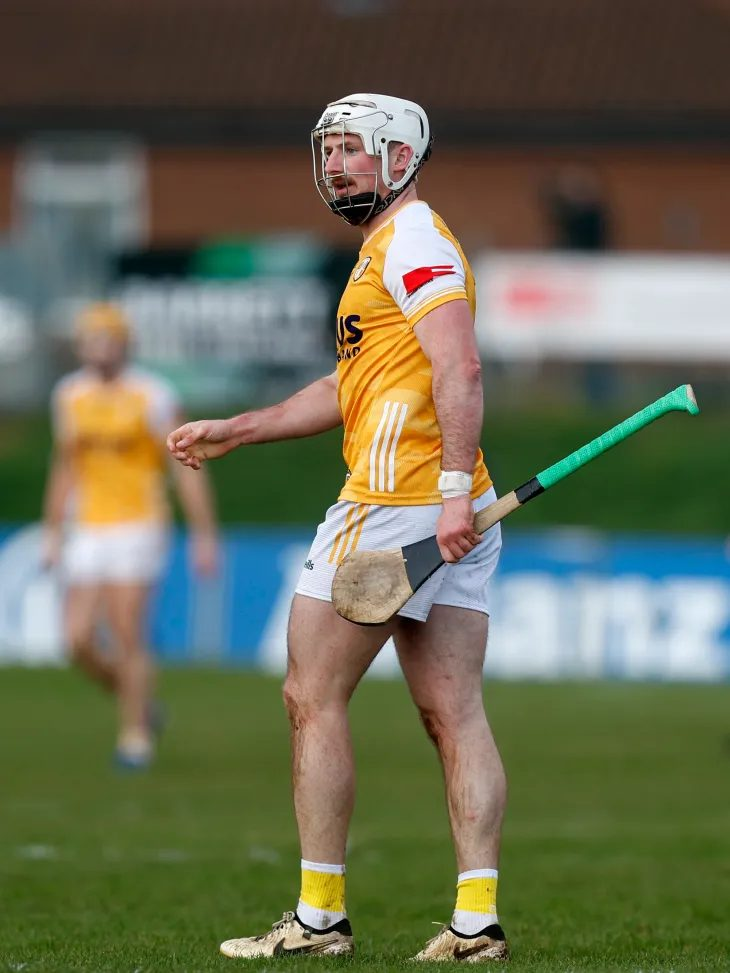
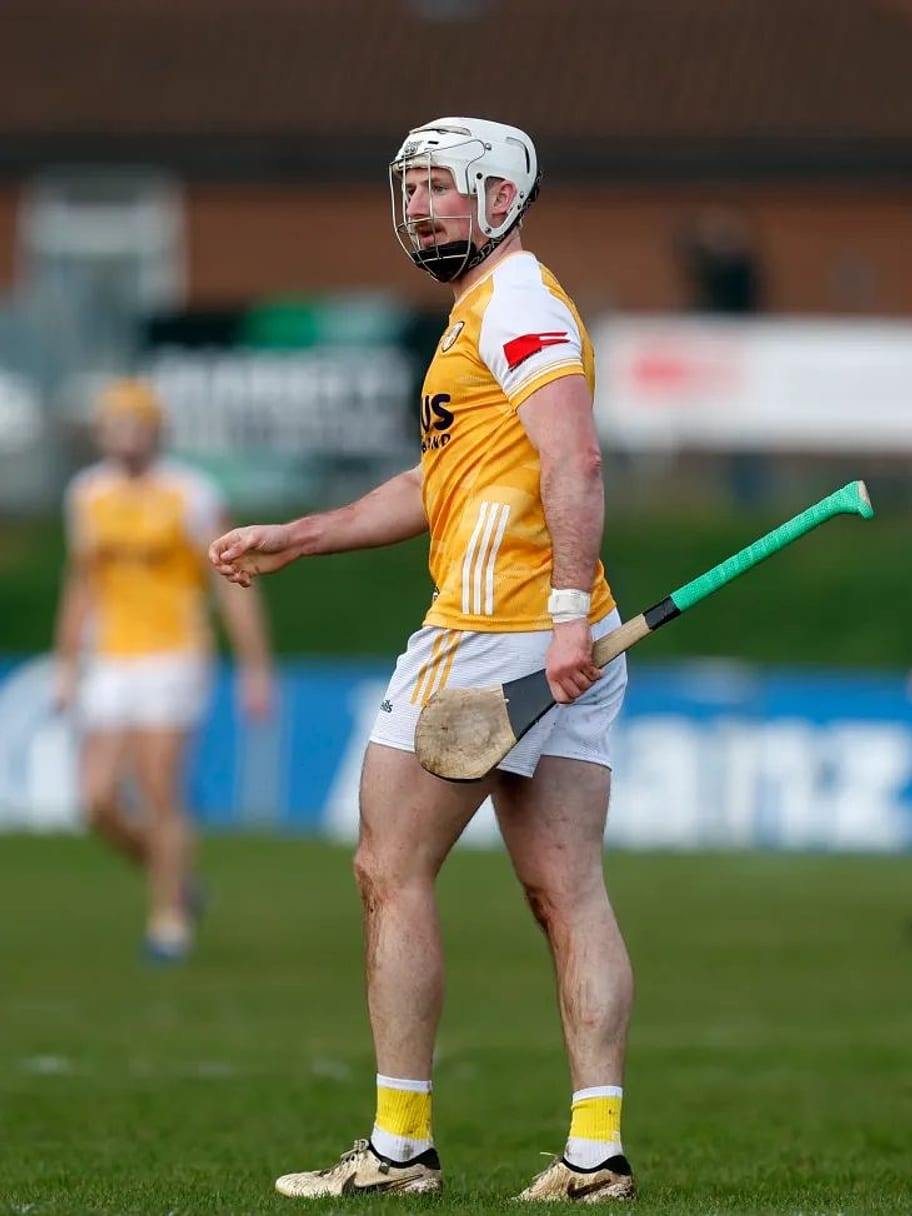
SEO metadata pass and sharper hero rendering
- Full head: canonical, robots, Open Graph, Twitter card, JSON-LD
  (Organization, Person, Service, WebSite, FAQPage), touch icons
- Add robots.txt, sitemap.xml and a 1200x630 social share image
- Hero: sharp layer capped at 1.25x native over a blurred backdrop so the
  730px source is no longer stretched ~2x on wide screens; source
  re-encoded with Lanczos upscale and light sharpening
- Lazy-load below-the-fold photos, descriptive alt text

Claude-Session: https://claude.ai/code/session_0152sJEvqxkqSWzXMXfQjs4p

diff --git a/index.html b/index.html
@@ -1,11 +1,88 @@
 <!DOCTYPE html>
-<html lang="en">
+<html lang="en-IE">
 <head>
 <meta charset="UTF-8">
 <meta name="viewport" content="width=device-width, initial-scale=1.0">
-<title>1:1 Online Coaching | PB Performance Coaching</title>
-<meta name="description" content="Individual 1:1 online coaching for ambitious GAA players. Become stronger, fitter, faster and better prepared to perform on the pitch.">
+<title>1:1 Online S&amp;C Coaching for GAA Players | PB Performance Coaching</title>
+<meta name="description" content="Individual online strength &amp; conditioning coaching for ambitious GAA players, from Antrim senior hurler and MSc performance coach Paddy Burke.">
+<link rel="canonical" href="https://pbperformancecoaching.com/">
+<meta name="robots" content="index,follow,max-image-preview:large">
+<meta name="author" content="Paddy Burke">
+<meta name="theme-color" content="#080e12">
+
+<meta property="og:type" content="website">
+<meta property="og:site_name" content="PB Performance Coaching">
+<meta property="og:locale" content="en_IE">
+<meta property="og:url" content="https://pbperformancecoaching.com/">
+<meta property="og:title" content="1:1 Online Coaching for Ambitious GAA Players">
+<meta property="og:description" content="Physical performance coaching built around your season, your schedule and your goals. Coached personally by Antrim senior hurler Paddy Burke.">
+<meta property="og:image" content="https://pbperformancecoaching.com/images/og-image.jpg">
+<meta property="og:image:width" content="1200">
+<meta property="og:image:height" content="630">
+<meta property="og:image:alt" content="Paddy Burke coaching a GAA player through a testing session in the gym">
+<meta name="twitter:card" content="summary_large_image">
+<meta name="twitter:title" content="1:1 Online Coaching for Ambitious GAA Players">
+<meta name="twitter:description" content="Physical performance coaching built around your season, your schedule and your goals. Coached personally by Antrim senior hurler Paddy Burke.">
+<meta name="twitter:image" content="https://pbperformancecoaching.com/images/og-image.jpg">
+
 <link rel="icon" type="image/svg+xml" href="images/logo.svg">
+<link rel="icon" type="image/png" sizes="32x32" href="images/favicon-32.png">
+<link rel="apple-touch-icon" sizes="180x180" href="images/apple-touch-icon.png">
+<link rel="preload" as="image" href="images/hurling-portrait.jpg" fetchpriority="high">
+
+<script type="application/ld+json">
+{
+  "@context": "https://schema.org",
+  "@graph": [
+    {
+      "@type": "Organization",
+      "@id": "https://pbperformancecoaching.com/#org",
+      "name": "PB Performance Coaching",
+      "url": "https://pbperformancecoaching.com/",
+      "logo": "https://pbperformancecoaching.com/images/logo.jpg",
+      "founder": { "@id": "https://pbperformancecoaching.com/#paddy" },
+      "areaServed": "Ireland"
+    },
+    {
+      "@type": "Person",
+      "@id": "https://pbperformancecoaching.com/#paddy",
+      "name": "Paddy Burke",
+      "jobTitle": "Strength & Conditioning Coach",
+      "description": "Antrim senior hurler with more than ten years of intercounty experience, Strength & Conditioning Coach and MSc Performance Coaching graduate.",
+      "image": "https://pbperformancecoaching.com/images/paddy-bench.jpg",
+      "worksFor": { "@id": "https://pbperformancecoaching.com/#org" },
+      "url": "https://pbperformancecoaching.com/"
+    },
+    {
+      "@type": "Service",
+      "name": "1:1 Online Coaching for GAA Players",
+      "serviceType": "Online strength and conditioning coaching",
+      "provider": { "@id": "https://pbperformancecoaching.com/#org" },
+      "audience": { "@type": "Audience", "audienceType": "GAA players, club to intercounty" },
+      "areaServed": "Ireland",
+      "url": "https://pbperformancecoaching.com/",
+      "description": "Individual physical performance coaching for ambitious GAA players: an initial assessment, a programme built around your team schedule, weekly check-ins, adjustments and direct access to your coach."
+    },
+    {
+      "@type": "WebSite",
+      "name": "PB Performance Coaching",
+      "url": "https://pbperformancecoaching.com/",
+      "publisher": { "@id": "https://pbperformancecoaching.com/#org" }
+    },
+    {
+      "@type": "FAQPage",
+      "mainEntity": [
+        { "@type": "Question", "name": "How does online coaching work?", "acceptedAnswer": { "@type": "Answer", "text": "After your initial assessment, your programme is delivered through the coaching app with exercise demonstrations and progress tracking. You complete a weekly check-in, receive adjustments and can contact Paddy directly when you need support." } },
+        { "@type": "Question", "name": "How many sessions will I complete?", "acceptedAnswer": { "@type": "Answer", "text": "That depends on your team schedule, goals and stage of the season. Your plan is built around the time you realistically have. More sessions are not automatically better." } },
+        { "@type": "Question", "name": "Will the gym work leave me tired for matches?", "acceptedAnswer": { "@type": "Answer", "text": "Your programme is planned around team training and fixtures. Volume and intensity are managed so that your gym work supports rather than competes with your performance on the pitch." } },
+        { "@type": "Question", "name": "How long does coaching last?", "acceptedAnswer": { "@type": "Answer", "text": "Meaningful physical development takes time. Coaching begins with an initial 90-day commitment, after which we review the next phase around your goals and season." } },
+        { "@type": "Question", "name": "Is this only for intercounty players?", "acceptedAnswer": { "@type": "Answer", "text": "No. The coaching is for ambitious GAA players from club level through to intercounty. Your current level matters less than your willingness to work, communicate and improve." } },
+        { "@type": "Question", "name": "What happens after I apply?", "acceptedAnswer": { "@type": "Answer", "text": "Paddy will review your application personally and contact you to arrange a conversation. You'll discuss where you are now, what you want to improve and whether the coaching is the right fit for you." } }
+      ]
+    }
+  ]
+}
+</script>
 <style>
 *,*::before,*::after{box-sizing:border-box;margin:0;padding:0}
 :root{
@@ -34,7 +111,8 @@ nav{position:fixed;top:0;left:0;right:0;z-index:100;display:flex;align-items:cen
 
 /* HERO */
 .hero{min-height:100vh;position:relative;display:flex;align-items:center;justify-content:center;overflow:hidden}
-.hero__bg{position:absolute;inset:0;background:url('images/hurling-portrait.jpg') 50% 18%/cover no-repeat;filter:brightness(.48) saturate(.8)}
+.hero__bg{position:absolute;inset:-32px;background:url('images/hurling-portrait.jpg') 50% 18%/cover no-repeat;filter:blur(18px) brightness(.4) saturate(.7)}
+.hero__img{position:absolute;top:0;left:50%;height:125%;width:auto;max-width:none;transform:translate(-50%,-9%);filter:brightness(.48) saturate(.8);-webkit-mask-image:linear-gradient(to right,transparent,#000 22%,#000 78%,transparent);mask-image:linear-gradient(to right,transparent,#000 22%,#000 78%,transparent)}
 .hero__g{position:absolute;inset:0;background:linear-gradient(to bottom,rgba(8,14,18,.25) 0%,rgba(8,14,18,.15) 30%,rgba(8,14,18,.65) 68%,#080e12 100%)}
 .hero__c{position:relative;z-index:2;max-width:700px;padding:7rem 2rem 5rem;width:100%;text-align:center}
 .hero__tag{display:inline-block;font-size:.6rem;font-weight:700;letter-spacing:.22em;text-transform:uppercase;color:var(--accent);margin-bottom:1.4rem}
@@ -176,6 +254,7 @@ footer a{color:inherit;text-decoration:none;opacity:.7}
 <!-- HERO -->
 <section class="hero">
   <div class="hero__bg"></div>
+  <img class="hero__img" src="images/hurling-portrait.jpg" alt="" aria-hidden="true" fetchpriority="high" decoding="async">
   <div class="hero__g"></div>
   <div class="hero__c">
     <span class="hero__tag">Individual 1:1 Online Coaching</span>
@@ -211,7 +290,7 @@ footer a{color:inherit;text-decoration:none;opacity:.7}
     <p class="s-eyebrow">Player Results</p>
     <h2 class="s-h">From reserve player to established starter</h2>
     <div class="proof-inner">
-      <img src="images/athlete-owen.png" alt="Owen" class="proof-photo">
+      <img src="images/athlete-owen.png" alt="Owen, GAA player coached by PB Performance" class="proof-photo" loading="lazy" decoding="async">
       <div>
         <p class="s-body">Over 14 months, Owen:</p>
         <ul class="proof-list">
@@ -237,7 +316,7 @@ footer a{color:inherit;text-decoration:none;opacity:.7}
 
       <!-- Aimon — photo, updated to quote -->
       <div class="result-card rv">
-        <img src="images/athlete-aimon.png" alt="Aimon" class="result-card__img">
+        <img src="images/athlete-aimon.png" alt="Aimon" class="result-card__img" loading="lazy" decoding="async">
         <div class="result-card__body">
           <p class="result-card__heading">Stronger and more powerful on the pitch</p>
           <p class="result-card__quote">"I feel physically stronger on the pitch and more powerful in every aspect. I reached a 100kg bench press and a 150kg squat. The attention to detail and the way the programme was built around my goals were top drawer."</p>
@@ -247,7 +326,7 @@ footer a{color:inherit;text-decoration:none;opacity:.7}
 
       <!-- Niamh — photo, updated quote -->
       <div class="result-card rv" style="transition-delay:.05s">
-        <img src="images/athlete-niamh.png" alt="Niamh" class="result-card__img">
+        <img src="images/athlete-niamh.png" alt="Niamh" class="result-card__img" loading="lazy" decoding="async">
         <div class="result-card__body">
           <p class="result-card__heading">A noticeable difference through the tackle</p>
           <p class="result-card__quote">"I noticed a big difference in my strength, especially when taking the ball through a tackle — I can carry it much better. The structured programme took all the guesswork out of the gym, and I could build it around my lifestyle and busy schedule."</p>
@@ -257,7 +336,7 @@ footer a{color:inherit;text-decoration:none;opacity:.7}
 
       <!-- Kieran — photo, updated quote -->
       <div class="result-card rv" style="transition-delay:.1s">
-        <img src="images/athlete-kieran.jpg" alt="Kieran" class="result-card__img">
+        <img src="images/athlete-kieran.jpg" alt="Kieran" class="result-card__img" loading="lazy" decoding="async">
         <div class="result-card__body">
           <p class="result-card__heading">Progress without carrying fatigue into training</p>
           <p class="result-card__quote">"This is the fastest I have ever progressed in the gym and the highest weights I have hit. The programme pushed me without leaving me fatigued for the next session, and any changes I needed were made quickly."</p>
@@ -267,7 +346,7 @@ footer a{color:inherit;text-decoration:none;opacity:.7}
 
       <!-- Eamonn — photo, existing -->
       <div class="result-card rv" style="transition-delay:.15s">
-        <img src="images/athlete-eamonn.jpg" alt="Eamonn" class="result-card__img">
+        <img src="images/athlete-eamonn.jpg" alt="Eamonn" class="result-card__img" loading="lazy" decoding="async">
         <div class="result-card__body">
           <p class="result-card__heading">Meaningful progress with limited time</p>
           <p class="result-card__quote">"After a season ravaged by injuries, I wanted to put on size and set myself up properly. I gained around 3kg of muscle and improved my strength massively. The short, simple sessions meant I could still tick every box, even with limited time."</p>
@@ -442,7 +521,7 @@ footer a{color:inherit;text-decoration:none;opacity:.7}
   <div class="w rv">
     <h2 class="s-h" style="margin-bottom:1.8rem">Meet Paddy</h2>
     <div class="about-inner">
-      <img src="images/paddy-bench.jpg" alt="Paddy Burke" class="about-photo" onerror="this.style.display='none'">
+      <img src="images/paddy-bench.jpg" alt="Paddy Burke, Antrim senior hurler and strength and conditioning coach" class="about-photo" loading="lazy" decoding="async">
       <div>
         <div class="about-creds-row">
           <span class="about-cred">Antrim Senior Hurler</span>

diff --git a/pb-one-to-one.html b/pb-one-to-one.html
@@ -1,11 +1,88 @@
 <!DOCTYPE html>
-<html lang="en">
+<html lang="en-IE">
 <head>
 <meta charset="UTF-8">
 <meta name="viewport" content="width=device-width, initial-scale=1.0">
-<title>1:1 Online Coaching | PB Performance Coaching</title>
-<meta name="description" content="Individual 1:1 online coaching for ambitious GAA players. Become stronger, fitter, faster and better prepared to perform on the pitch.">
+<title>1:1 Online S&amp;C Coaching for GAA Players | PB Performance Coaching</title>
+<meta name="description" content="Individual online strength &amp; conditioning coaching for ambitious GAA players, from Antrim senior hurler and MSc performance coach Paddy Burke.">
+<link rel="canonical" href="https://pbperformancecoaching.com/">
+<meta name="robots" content="index,follow,max-image-preview:large">
+<meta name="author" content="Paddy Burke">
+<meta name="theme-color" content="#080e12">
+
+<meta property="og:type" content="website">
+<meta property="og:site_name" content="PB Performance Coaching">
+<meta property="og:locale" content="en_IE">
+<meta property="og:url" content="https://pbperformancecoaching.com/">
+<meta property="og:title" content="1:1 Online Coaching for Ambitious GAA Players">
+<meta property="og:description" content="Physical performance coaching built around your season, your schedule and your goals. Coached personally by Antrim senior hurler Paddy Burke.">
+<meta property="og:image" content="https://pbperformancecoaching.com/images/og-image.jpg">
+<meta property="og:image:width" content="1200">
+<meta property="og:image:height" content="630">
+<meta property="og:image:alt" content="Paddy Burke coaching a GAA player through a testing session in the gym">
+<meta name="twitter:card" content="summary_large_image">
+<meta name="twitter:title" content="1:1 Online Coaching for Ambitious GAA Players">
+<meta name="twitter:description" content="Physical performance coaching built around your season, your schedule and your goals. Coached personally by Antrim senior hurler Paddy Burke.">
+<meta name="twitter:image" content="https://pbperformancecoaching.com/images/og-image.jpg">
+
 <link rel="icon" type="image/svg+xml" href="images/logo.svg">
+<link rel="icon" type="image/png" sizes="32x32" href="images/favicon-32.png">
+<link rel="apple-touch-icon" sizes="180x180" href="images/apple-touch-icon.png">
+<link rel="preload" as="image" href="images/hurling-portrait.jpg" fetchpriority="high">
+
+<script type="application/ld+json">
+{
+  "@context": "https://schema.org",
+  "@graph": [
+    {
+      "@type": "Organization",
+      "@id": "https://pbperformancecoaching.com/#org",
+      "name": "PB Performance Coaching",
+      "url": "https://pbperformancecoaching.com/",
+      "logo": "https://pbperformancecoaching.com/images/logo.jpg",
+      "founder": { "@id": "https://pbperformancecoaching.com/#paddy" },
+      "areaServed": "Ireland"
+    },
+    {
+      "@type": "Person",
+      "@id": "https://pbperformancecoaching.com/#paddy",
+      "name": "Paddy Burke",
+      "jobTitle": "Strength & Conditioning Coach",
+      "description": "Antrim senior hurler with more than ten years of intercounty experience, Strength & Conditioning Coach and MSc Performance Coaching graduate.",
+      "image": "https://pbperformancecoaching.com/images/paddy-bench.jpg",
+      "worksFor": { "@id": "https://pbperformancecoaching.com/#org" },
+      "url": "https://pbperformancecoaching.com/"
+    },
+    {
+      "@type": "Service",
+      "name": "1:1 Online Coaching for GAA Players",
+      "serviceType": "Online strength and conditioning coaching",
+      "provider": { "@id": "https://pbperformancecoaching.com/#org" },
+      "audience": { "@type": "Audience", "audienceType": "GAA players, club to intercounty" },
+      "areaServed": "Ireland",
+      "url": "https://pbperformancecoaching.com/",
+      "description": "Individual physical performance coaching for ambitious GAA players: an initial assessment, a programme built around your team schedule, weekly check-ins, adjustments and direct access to your coach."
+    },
+    {
+      "@type": "WebSite",
+      "name": "PB Performance Coaching",
+      "url": "https://pbperformancecoaching.com/",
+      "publisher": { "@id": "https://pbperformancecoaching.com/#org" }
+    },
+    {
+      "@type": "FAQPage",
+      "mainEntity": [
+        { "@type": "Question", "name": "How does online coaching work?", "acceptedAnswer": { "@type": "Answer", "text": "After your initial assessment, your programme is delivered through the coaching app with exercise demonstrations and progress tracking. You complete a weekly check-in, receive adjustments and can contact Paddy directly when you need support." } },
+        { "@type": "Question", "name": "How many sessions will I complete?", "acceptedAnswer": { "@type": "Answer", "text": "That depends on your team schedule, goals and stage of the season. Your plan is built around the time you realistically have. More sessions are not automatically better." } },
+        { "@type": "Question", "name": "Will the gym work leave me tired for matches?", "acceptedAnswer": { "@type": "Answer", "text": "Your programme is planned around team training and fixtures. Volume and intensity are managed so that your gym work supports rather than competes with your performance on the pitch." } },
+        { "@type": "Question", "name": "How long does coaching last?", "acceptedAnswer": { "@type": "Answer", "text": "Meaningful physical development takes time. Coaching begins with an initial 90-day commitment, after which we review the next phase around your goals and season." } },
+        { "@type": "Question", "name": "Is this only for intercounty players?", "acceptedAnswer": { "@type": "Answer", "text": "No. The coaching is for ambitious GAA players from club level through to intercounty. Your current level matters less than your willingness to work, communicate and improve." } },
+        { "@type": "Question", "name": "What happens after I apply?", "acceptedAnswer": { "@type": "Answer", "text": "Paddy will review your application personally and contact you to arrange a conversation. You'll discuss where you are now, what you want to improve and whether the coaching is the right fit for you." } }
+      ]
+    }
+  ]
+}
+</script>
 <style>
 *,*::before,*::after{box-sizing:border-box;margin:0;padding:0}
 :root{
@@ -34,7 +111,8 @@ nav{position:fixed;top:0;left:0;right:0;z-index:100;display:flex;align-items:cen
 
 /* HERO */
 .hero{min-height:100vh;position:relative;display:flex;align-items:center;justify-content:center;overflow:hidden}
-.hero__bg{position:absolute;inset:0;background:url('images/hurling-portrait.jpg') 50% 18%/cover no-repeat;filter:brightness(.48) saturate(.8)}
+.hero__bg{position:absolute;inset:-32px;background:url('images/hurling-portrait.jpg') 50% 18%/cover no-repeat;filter:blur(18px) brightness(.4) saturate(.7)}
+.hero__img{position:absolute;top:0;left:50%;height:125%;width:auto;max-width:none;transform:translate(-50%,-9%);filter:brightness(.48) saturate(.8);-webkit-mask-image:linear-gradient(to right,transparent,#000 22%,#000 78%,transparent);mask-image:linear-gradient(to right,transparent,#000 22%,#000 78%,transparent)}
 .hero__g{position:absolute;inset:0;background:linear-gradient(to bottom,rgba(8,14,18,.25) 0%,rgba(8,14,18,.15) 30%,rgba(8,14,18,.65) 68%,#080e12 100%)}
 .hero__c{position:relative;z-index:2;max-width:700px;padding:7rem 2rem 5rem;width:100%;text-align:center}
 .hero__tag{display:inline-block;font-size:.6rem;font-weight:700;letter-spacing:.22em;text-transform:uppercase;color:var(--accent);margin-bottom:1.4rem}
@@ -176,6 +254,7 @@ footer a{color:inherit;text-decoration:none;opacity:.7}
 <!-- HERO -->
 <section class="hero">
   <div class="hero__bg"></div>
+  <img class="hero__img" src="images/hurling-portrait.jpg" alt="" aria-hidden="true" fetchpriority="high" decoding="async">
   <div class="hero__g"></div>
   <div class="hero__c">
     <span class="hero__tag">Individual 1:1 Online Coaching</span>
@@ -211,7 +290,7 @@ footer a{color:inherit;text-decoration:none;opacity:.7}
     <p class="s-eyebrow">Player Results</p>
     <h2 class="s-h">From reserve player to established starter</h2>
     <div class="proof-inner">
-      <img src="images/athlete-owen.png" alt="Owen" class="proof-photo">
+      <img src="images/athlete-owen.png" alt="Owen, GAA player coached by PB Performance" class="proof-photo" loading="lazy" decoding="async">
       <div>
         <p class="s-body">Over 14 months, Owen:</p>
         <ul class="proof-list">
@@ -237,7 +316,7 @@ footer a{color:inherit;text-decoration:none;opacity:.7}
 
       <!-- Aimon — photo, updated to quote -->
       <div class="result-card rv">
-        <img src="images/athlete-aimon.png" alt="Aimon" class="result-card__img">
+        <img src="images/athlete-aimon.png" alt="Aimon" class="result-card__img" loading="lazy" decoding="async">
         <div class="result-card__body">
           <p class="result-card__heading">Stronger and more powerful on the pitch</p>
           <p class="result-card__quote">"I feel physically stronger on the pitch and more powerful in every aspect. I reached a 100kg bench press and a 150kg squat. The attention to detail and the way the programme was built around my goals were top drawer."</p>
@@ -247,7 +326,7 @@ footer a{color:inherit;text-decoration:none;opacity:.7}
 
       <!-- Niamh — photo, updated quote -->
       <div class="result-card rv" style="transition-delay:.05s">
-        <img src="images/athlete-niamh.png" alt="Niamh" class="result-card__img">
+        <img src="images/athlete-niamh.png" alt="Niamh" class="result-card__img" loading="lazy" decoding="async">
         <div class="result-card__body">
           <p class="result-card__heading">A noticeable difference through the tackle</p>
           <p class="result-card__quote">"I noticed a big difference in my strength, especially when taking the ball through a tackle — I can carry it much better. The structured programme took all the guesswork out of the gym, and I could build it around my lifestyle and busy schedule."</p>
@@ -257,7 +336,7 @@ footer a{color:inherit;text-decoration:none;opacity:.7}
 
       <!-- Kieran — photo, updated quote -->
       <div class="result-card rv" style="transition-delay:.1s">
-        <img src="images/athlete-kieran.jpg" alt="Kieran" class="result-card__img">
+        <img src="images/athlete-kieran.jpg" alt="Kieran" class="result-card__img" loading="lazy" decoding="async">
         <div class="result-card__body">
           <p class="result-card__heading">Progress without carrying fatigue into training</p>
           <p class="result-card__quote">"This is the fastest I have ever progressed in the gym and the highest weights I have hit. The programme pushed me without leaving me fatigued for the next session, and any changes I needed were made quickly."</p>
@@ -267,7 +346,7 @@ footer a{color:inherit;text-decoration:none;opacity:.7}
 
       <!-- Eamonn — photo, existing -->
       <div class="result-card rv" style="transition-delay:.15s">
-        <img src="images/athlete-eamonn.jpg" alt="Eamonn" class="result-card__img">
+        <img src="images/athlete-eamonn.jpg" alt="Eamonn" class="result-card__img" loading="lazy" decoding="async">
         <div class="result-card__body">
           <p class="result-card__heading">Meaningful progress with limited time</p>
           <p class="result-card__quote">"After a season ravaged by injuries, I wanted to put on size and set myself up properly. I gained around 3kg of muscle and improved my strength massively. The short, simple sessions meant I could still tick every box, even with limited time."</p>
@@ -442,7 +521,7 @@ footer a{color:inherit;text-decoration:none;opacity:.7}
   <div class="w rv">
     <h2 class="s-h" style="margin-bottom:1.8rem">Meet Paddy</h2>
     <div class="about-inner">
-      <img src="images/paddy-bench.jpg" alt="Paddy Burke" class="about-photo" onerror="this.style.display='none'">
+      <img src="images/paddy-bench.jpg" alt="Paddy Burke, Antrim senior hurler and strength and conditioning coach" class="about-photo" loading="lazy" decoding="async">
       <div>
         <div class="about-creds-row">
           <span class="about-cred">Antrim Senior Hurler</span>
